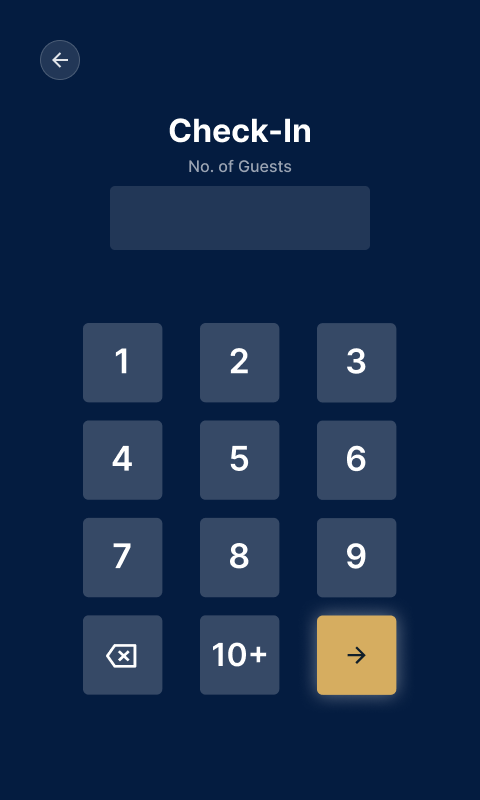
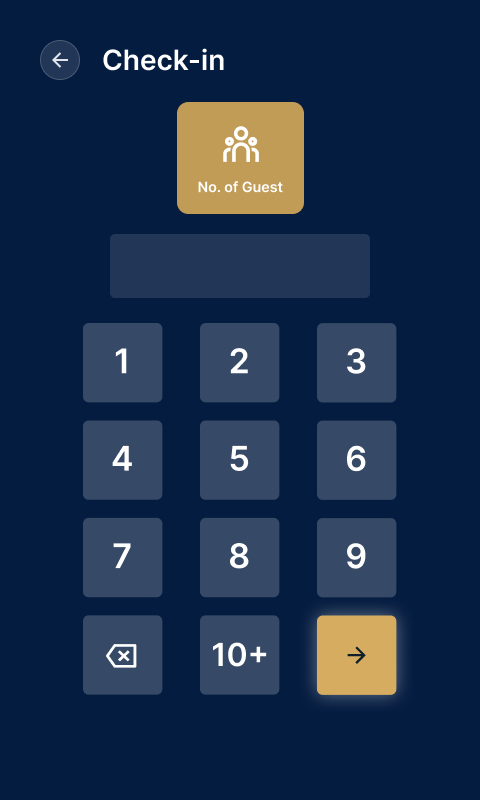
FIX: change ChooseNumberOfGuests Screen

Changed region(s): [[0.2188, 0.125, 0.7812, 0.375], [0.2188, 0.0625, 0.4688, 0.0938]]

diff --git a/qt-app/main.py b/qt-app/main.py
@@ -1184,7 +1184,8 @@ class ChooseNumberOfGuests(QDialog):
             ChooseNumberOfGuests.shared_instance = ChooseNumberOfGuests()
         return ChooseNumberOfGuests.shared_instance
     def navigateBack(self):
-        navigateToScreen(WaiterMenuScreen)
+        navigateGoBack()
+
 
     def __init__(self):
         super(ChooseNumberOfGuests, self).__init__()
@@ -1272,8 +1273,8 @@ class CorrectChooseNumberOfGuests(QDialog):
         self.signal.emit()
 
     def navigateBack(self):
-
         navigateGoBack()
+
     def setupKeyboard(self):
         setupKeyboard(self)
 
